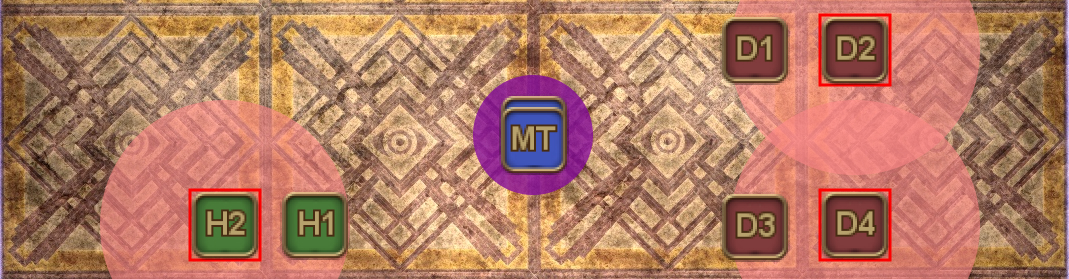
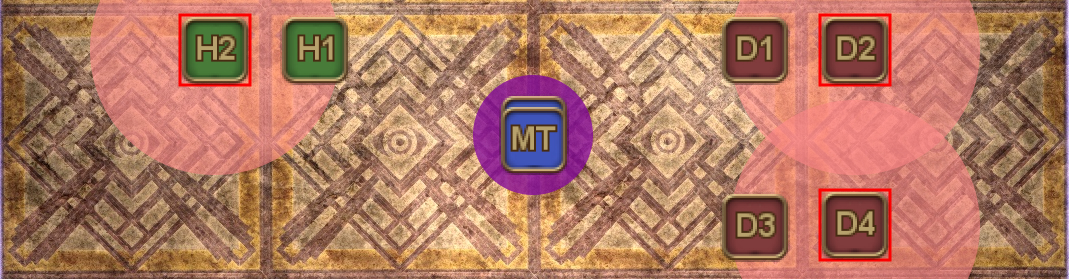
Clarified where the NA Fire stack should go on the side with two players

Changed region(s): [[0.0617, 0.0, 0.3396, 1.0]]

diff --git a/6.0_endwalker/savage_raids/p8s_2/README.md b/6.0_endwalker/savage_raids/p8s_2/README.md
@@ -80,7 +80,7 @@ Inside: D1>D2>D3>D4: Outside (baits Fire)
 <table>
   <tr>
     <td><p><b>Example 1:</b> MT and ST are selected as the Sigils.</p>
-    <p>The remaining pairs are:<ul><li>H1 > H2</li><li>D1 > D2</li><li>D3 > D4</li></ul>In each pair, the player with the lower priority baits Fire (H2, D2, D4).</p></td>
+    <p>The remaining pairs are:<ul><li>H1 > H2</li><li>D1 > D2</li><li>D3 > D4</li></ul>In each pair, the player with the lower priority baits Fire (H2, D2, D4).</p><p><em>Notice H1 and H2 are baiting Fire in the front of the row.</em></p></td>
     <td><img src="images/natural_alignment_ex1_fire.jpg"></td>
   </tr>
   <tr>
